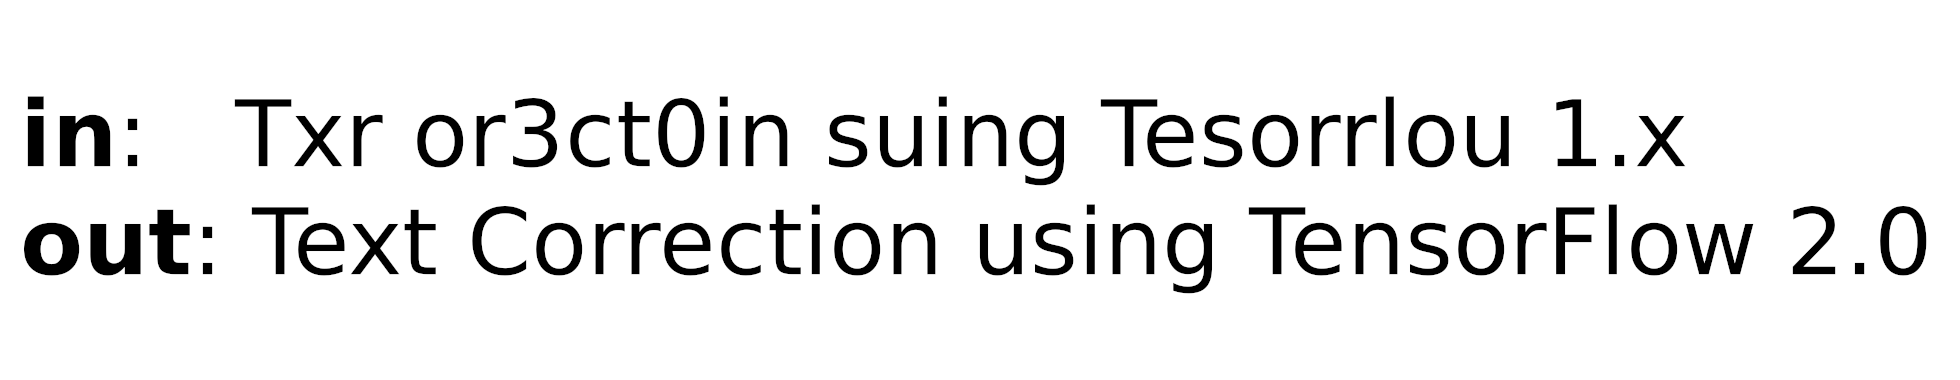
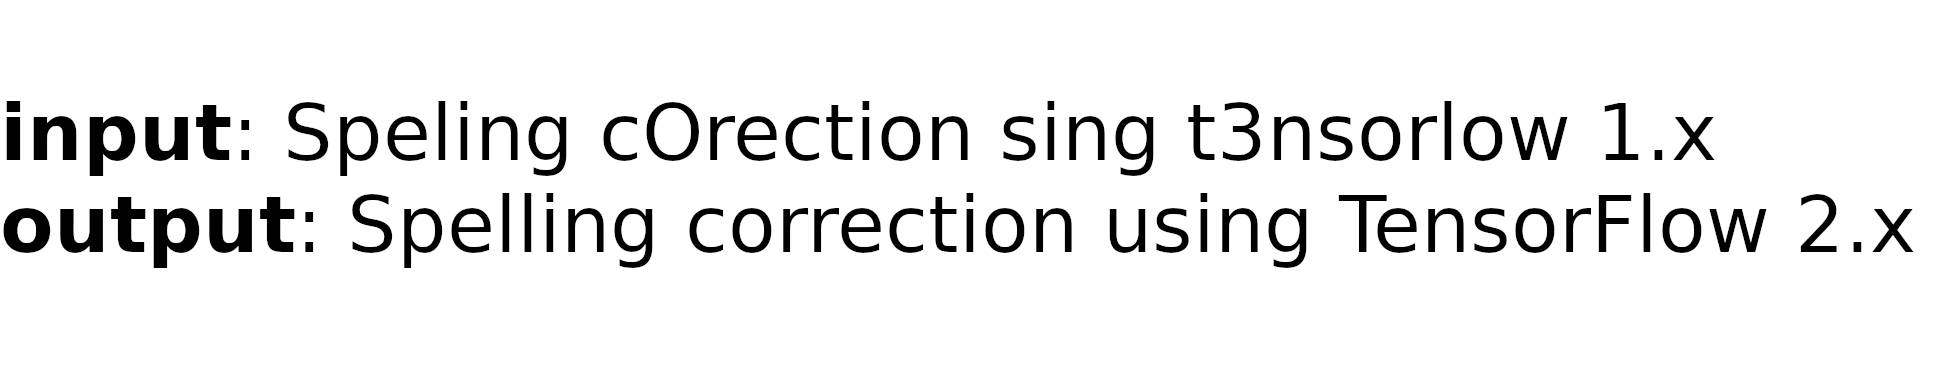
Update name project Update Tensorflow version Update ident shell scripts

Changed region(s): [[0.0, 0.4921, 0.9959, 0.7816], [0.0, 0.2605, 0.8714, 0.4921]]

diff --git a/src/tool/statistical.py b/src/tool/statistical.py
@@ -2,7 +2,7 @@
 Language Model class.
 Create and read the corpus with the language model file.
 
-Statistical techniques for text correction:
+Statistical techniques for spelling correction:
     * N-gram with similarity.
     * Peter Norvig's method.
     * Symspell method.
@@ -159,7 +159,7 @@ class LanguageModel():
 
     def _symspell(self, sentences):
         """
-        SymSpell tool to text correction through Symmetric Delete spelling algorithm.
+        SymSpell tool to spelling correction through Symmetric Delete spelling algorithm.
 
         Reference:
             Author: Wolf Garbe <wolf.garbe@faroo.com>

diff --git a/README.md b/README.md
@@ -1,11 +1,11 @@
-<img src="https://github.com/arthurflor23/text-correction/blob/master/doc/image/header.png?raw=true">
+<img src="https://github.com/arthurflor23/spelling-correction/blob/master/doc/image/header.png?raw=true">
 
-A text corrector system implemented using the Statistical Language Model ([Ngram](https://github.com/gpoulter/python-ngram), [Pyspellchecker](https://github.com/barrust/pyspellchecker) and [SymSpell](https://github.com/mammothb/symspellpy)) and Neural Network ([Seq2Seq](https://towardsdatascience.com/seq2seq-model-in-tensorflow-ec0c557e560f) and [Transformer](https://www.tensorflow.org/tutorials/text/transformer)) with TensorFlow 2.0. This project supports several text datasets and uses a noise random function to create data training (unlike Grammatical Error Correction (GEC) methodology). Don't worry, this is an automatic process in `transform` step and generator class.
+A spell corrector system implemented using the Statistical Language Model ([Ngram](https://github.com/gpoulter/python-ngram), [Pyspellchecker](https://github.com/barrust/pyspellchecker) and [SymSpell](https://github.com/mammothb/symspellpy)) and Neural Network ([Seq2Seq](https://towardsdatascience.com/seq2seq-model-in-tensorflow-ec0c557e560f) and [Transformer](https://www.tensorflow.org/tutorials/text/transformer)) with TensorFlow 2.0. This project supports several text datasets and uses a noise random function to create data training (unlike Grammatical Error Correction (GEC) methodology). Don't worry, this is an automatic process in `transform` step and generator class.
 
 **Notes**:
 1. All **references** are commented in the code.
 2. Check out the presentation in the **doc** folder.
-3. For more information and demo run step by step (neural network approach), check out the **[tutorial](https://github.com/arthurflor23/text-correction/blob/master/src/tutorial.ipynb)** on Google Colab/Drive.
+3. For more information and demo run step by step (neural network approach), check out the **[tutorial](https://github.com/arthurflor23/spelling-correction/blob/master/src/tutorial.ipynb)** on Google Colab/Drive.
 
 ## Datasets supported
 
@@ -62,4 +62,4 @@ i. [Washington](http://www.fki.inf.unibe.ch/databases/iam-historical-document-da
 
 ## Tutorial (Google Colab/Drive)
 
-A Jupyter Notebook is available to demo run (neural network approach), check out the **[tutorial](https://github.com/arthurflor23/text-correction/blob/master/src/tutorial.ipynb)** on Google Colab/Drive.
+A Jupyter Notebook is available to demo run (neural network approach), check out the **[tutorial](https://github.com/arthurflor23/spelling-correction/blob/master/src/tutorial.ipynb)** on Google Colab/Drive.
